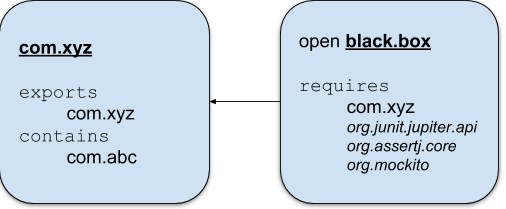
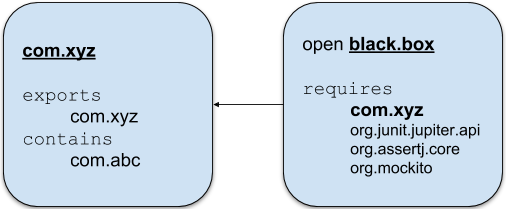
Add diagrams for black and white box testing

diff --git a/blog/2018-09-11-testing-in-the-modular-world.md b/blog/2018-09-11-testing-in-the-modular-world.md
@@ -108,18 +108,23 @@ open module black.box {
 }
 ```
 
+#### Black Box Testing Diagram
+
 Black box testing is the easy part.
-Test module `black.box` is main module `com.xyz`'s first customer.
-It adheres to the modular boundaries in the same way as any other module does.
-Same goes for the modules of the external testing frameworks like JUnit, AssertJ, Mockito and others.
 
 ![black-box-testing](2018-09-11-testing-in-the-modular-world-black-box-testing.png)
+
+Test module `black.box` is main module `com.xyz`'s first customer.
+It adheres to the modular boundaries in the same way as any other module does.
+The only visible package is `com.xyz`, package `com.abc` is concealed.
+Same goes for the modules of the external testing frameworks like JUnit, AssertJ, Mockito and others.
+Only their published API is use-able by test classes contained in module `black.box`.
 
 Now to the not so easy part...
 
 ## Modular White Box Testing
 
-Let's start this section with an enhanced [visibility](https://docs.oracle.com/javase/tutorial/java/javaOO/accesscontrol.html) table that includes columns for being in a different module.
+Let's start the white box testing section with an enhanced [visibility](https://docs.oracle.com/javase/tutorial/java/javaOO/accesscontrol.html) table that includes columns for being in a different module.
 
 ### Visibility table
 
@@ -230,6 +235,12 @@ After test compilation you need to blend in the test source set into the main mo
 - configure the Java module system with the extra command lines denoted in `module-info.test`.
 
 This option is already "supported" by some IDEs, at least they don't stumble compiling tests when a `module-info.test` file is present.
+
+#### White Box Testing Diagram
+
+![white-box-testing](2018-09-11-testing-in-the-modular-world-white-box-testing.png)
+
+_description pending..._ 
 
 ## Test Mode
 
@@ -393,6 +404,7 @@ This project's layout is based on proposals introduced by the [Module System Qui
 
 This is a living document, it will be updated now-and-then.
 
+2018-09-18 Add diagrams for black and white box testing
 2018-09-12 Polishing and improvements by various reader's comments
 2018-09-11 Initial version
 
